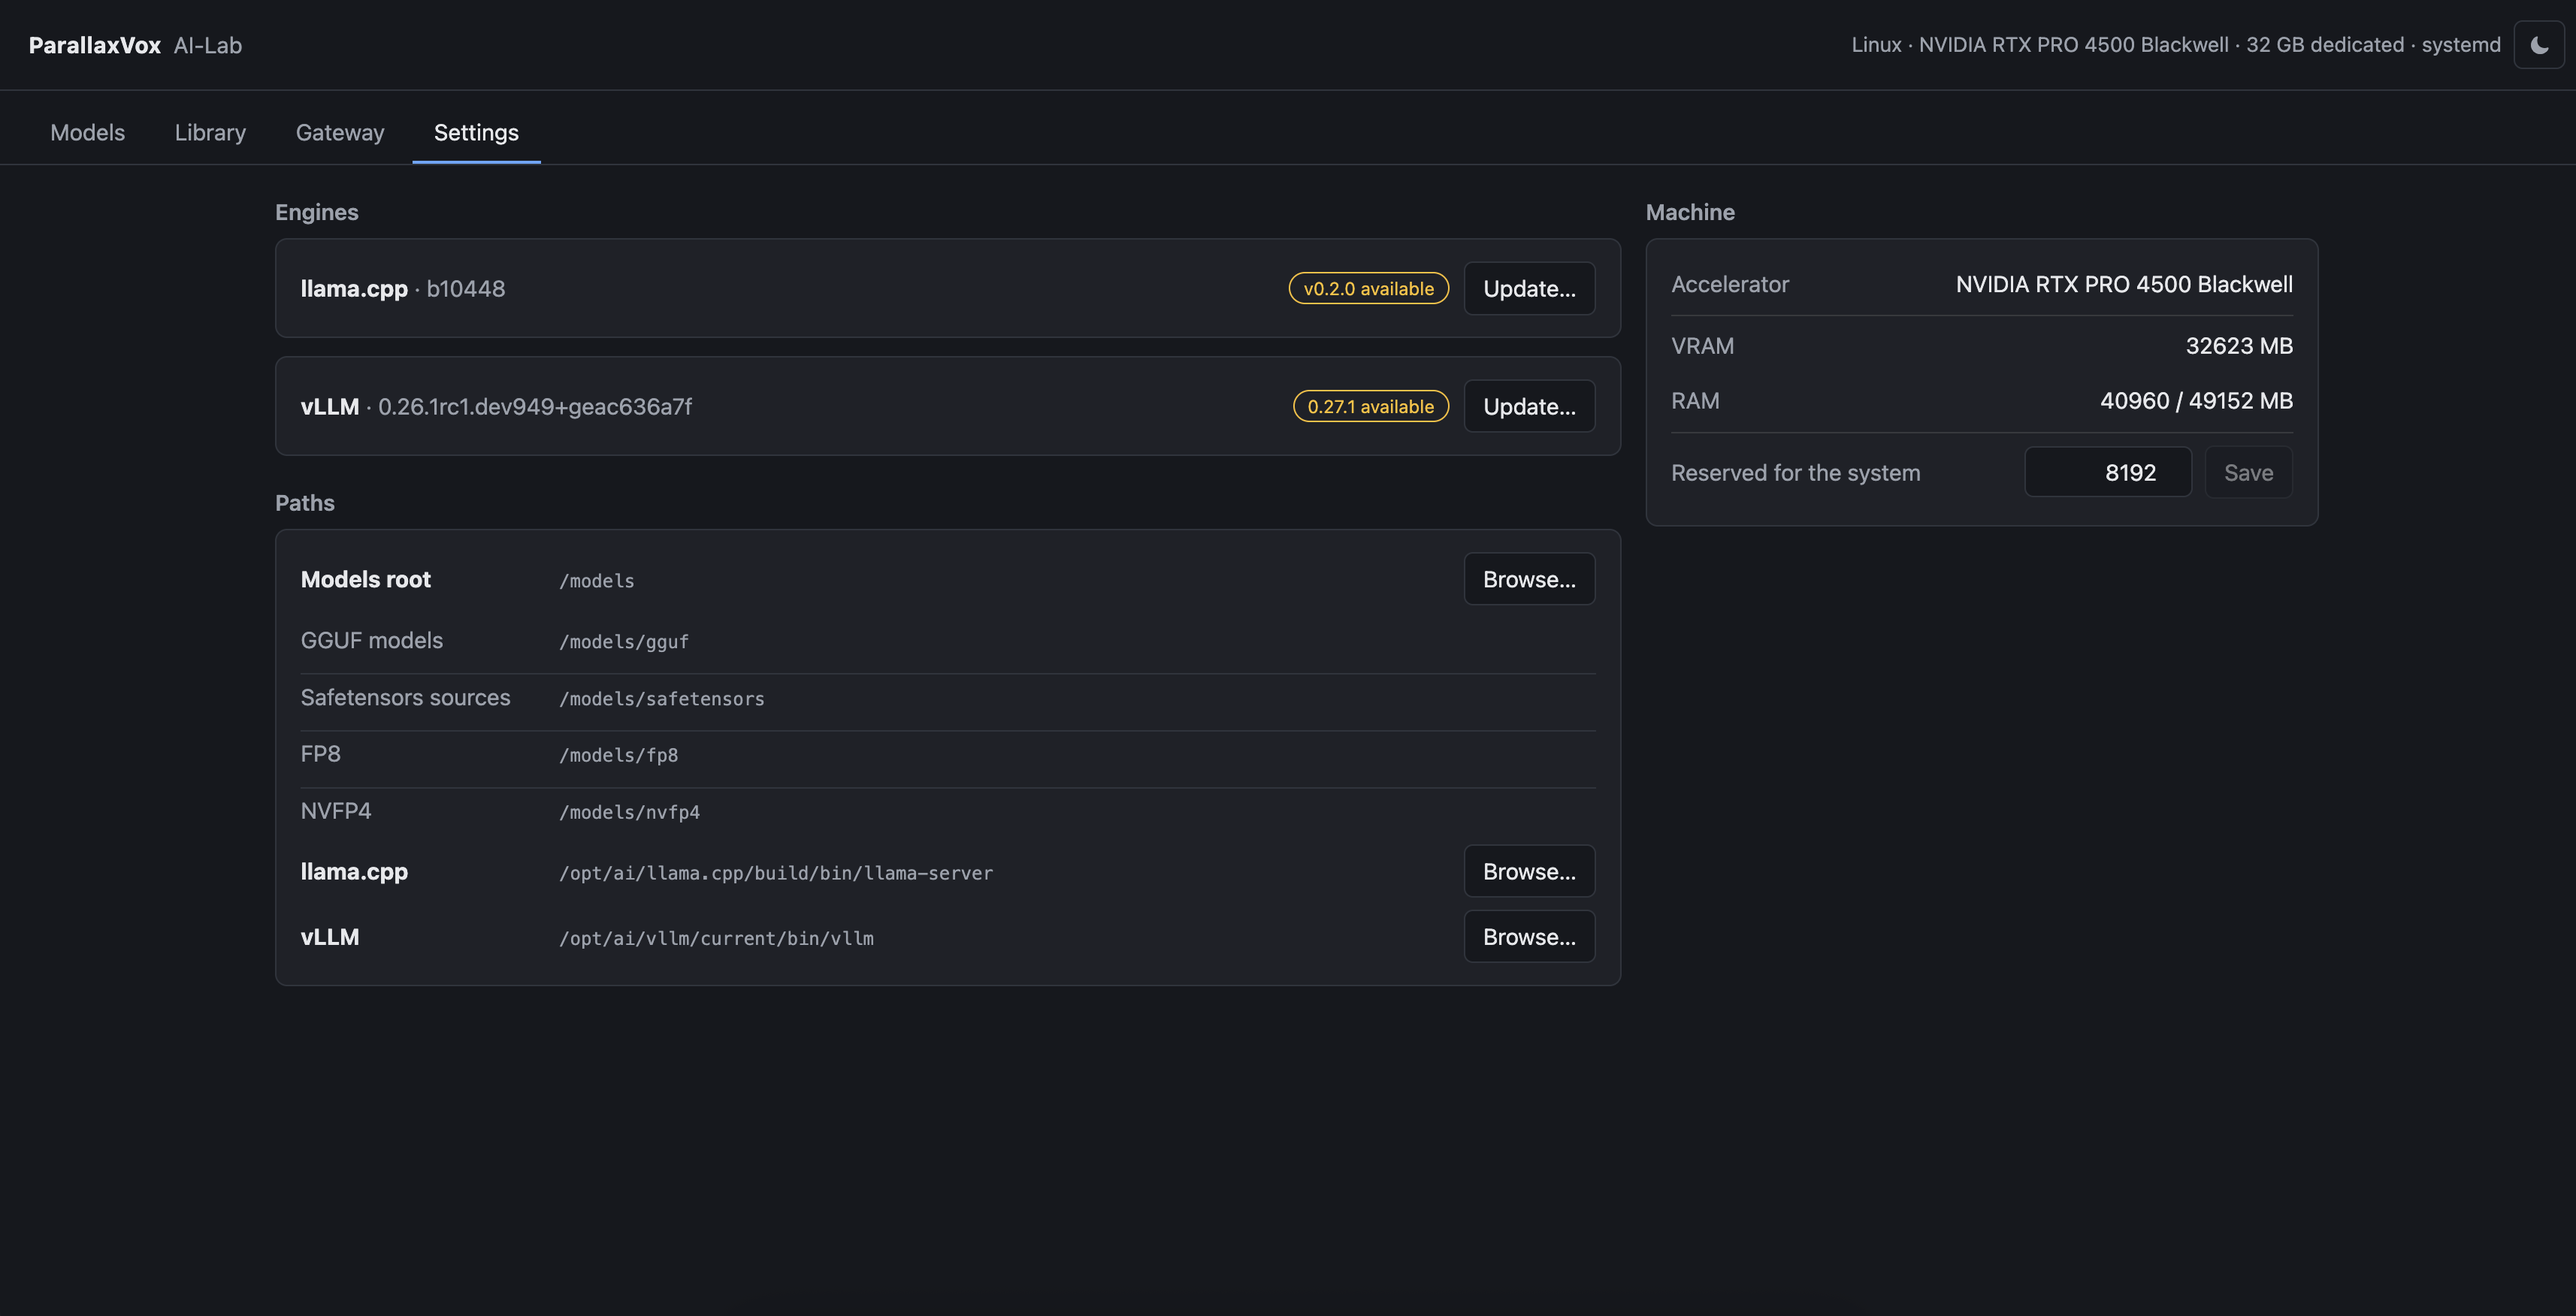
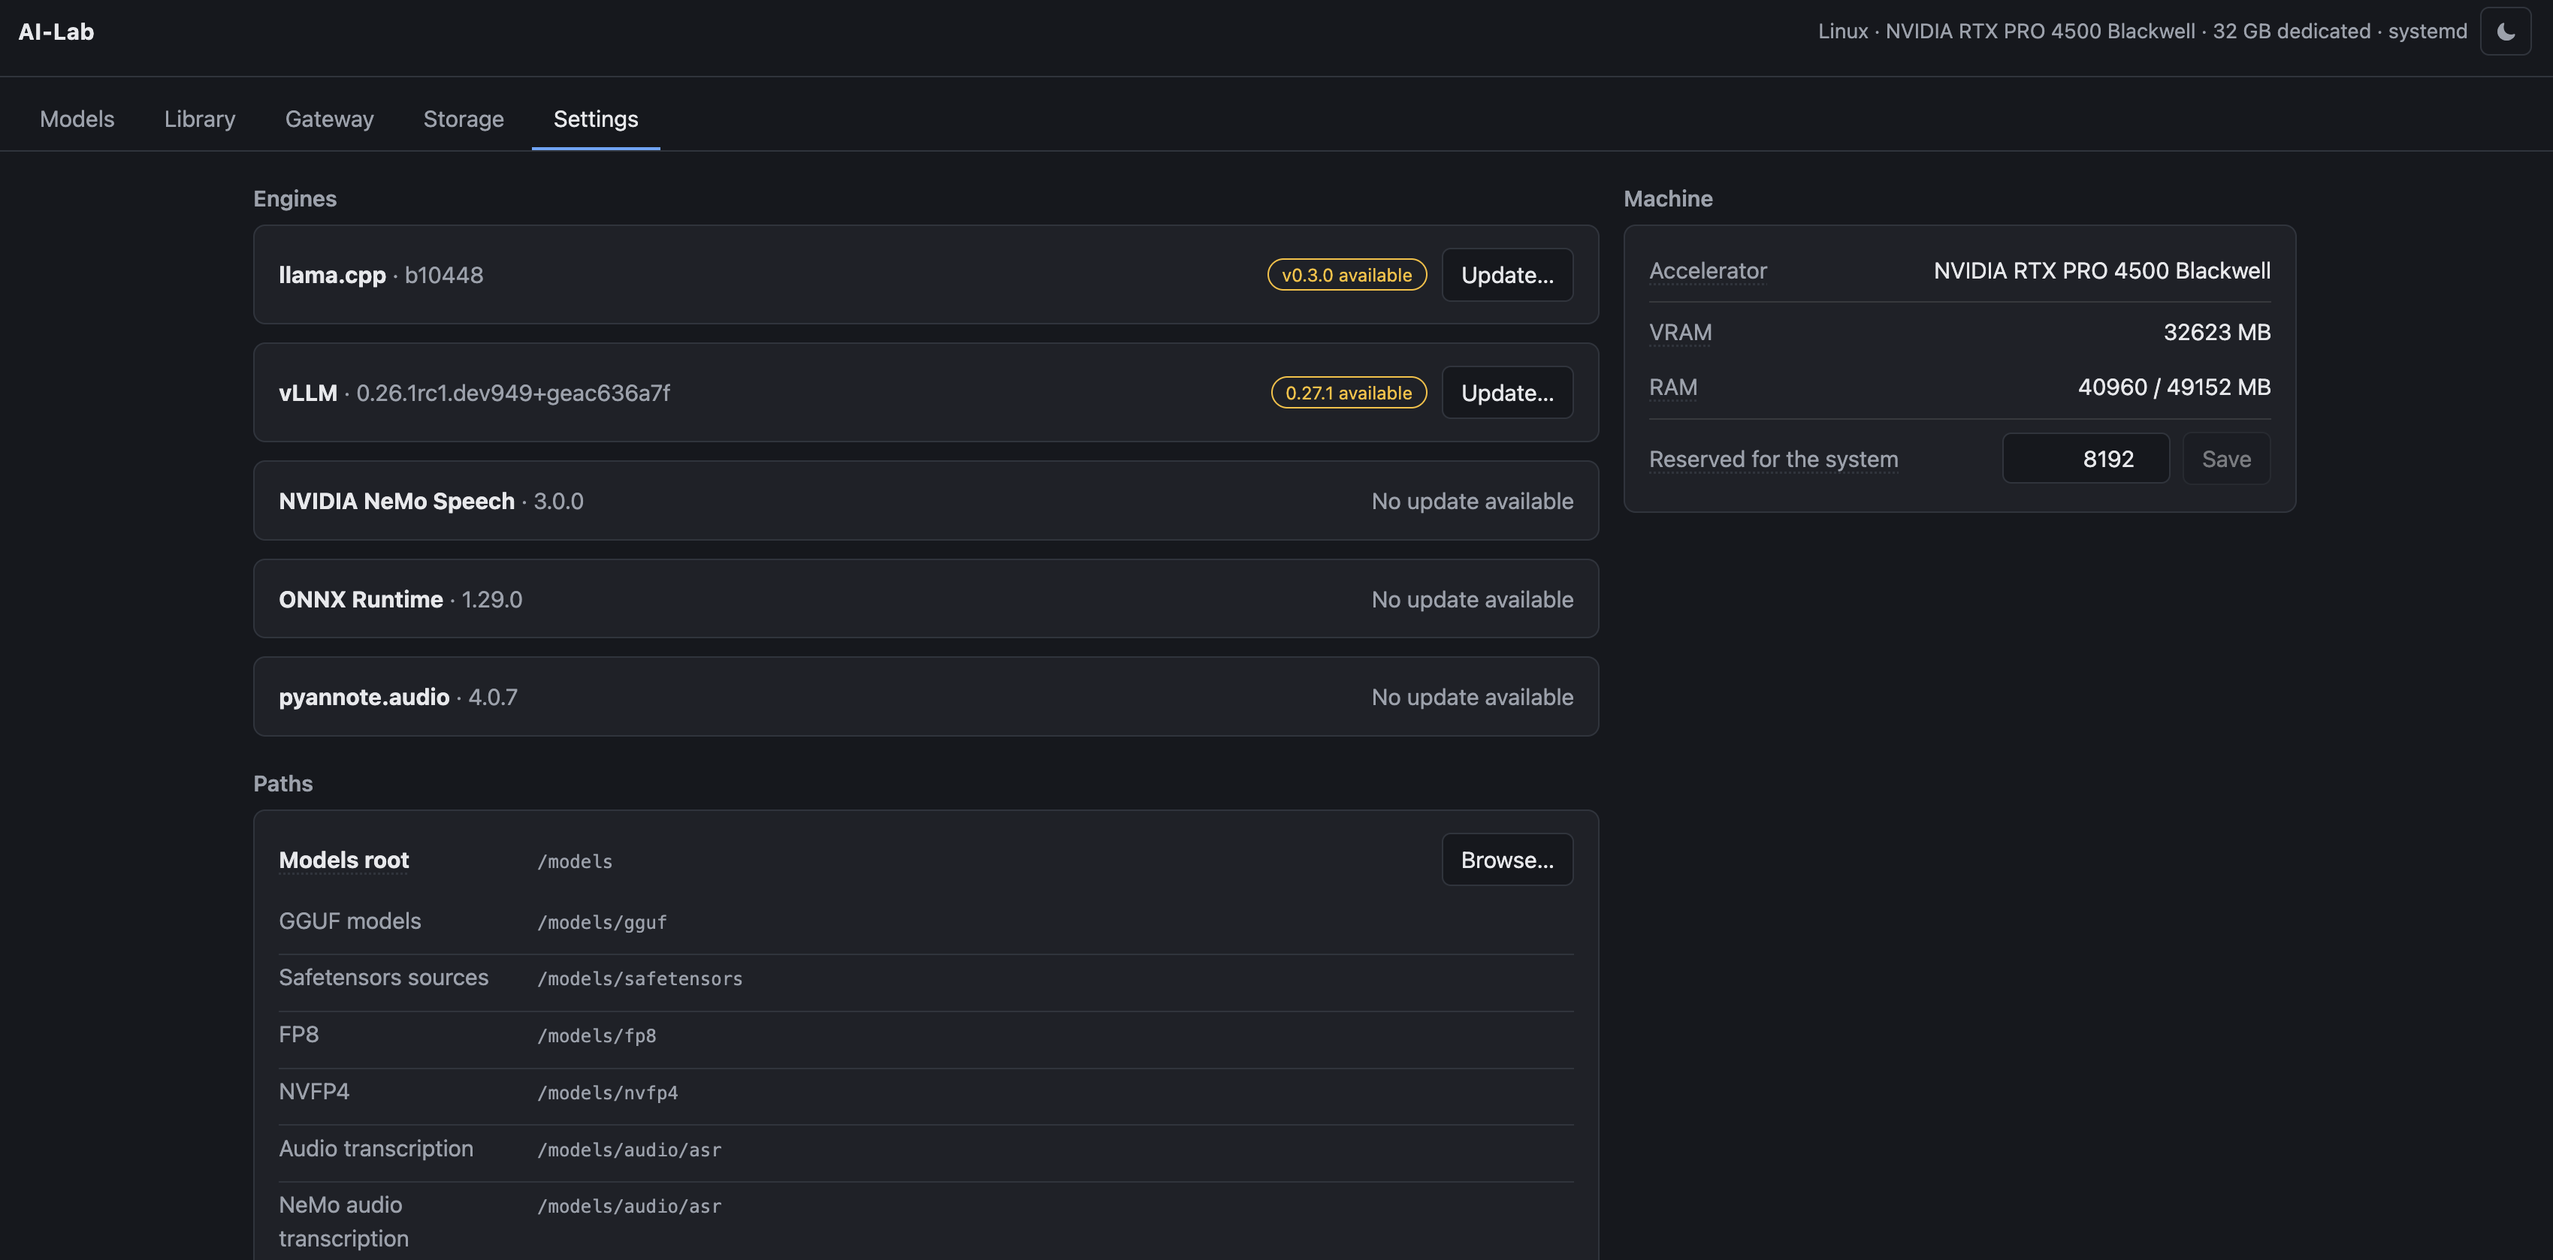
Update Settings and Storage documentation

diff --git a/README.md b/README.md
@@ -86,6 +86,18 @@ The address to point an agent at, what is loaded right now, and the queue read
 as what is about to happen rather than as a list of requests. More in
 [Gateway](docs/gateway.md).
 
+![Settings](docs/screenshots/settings.png)
+
+Installed engine versions and available updates, the machine's memory reserve,
+and every path the installation depends on. More in
+[Settings](docs/settings.md).
+
+![Storage](docs/screenshots/storage.png)
+
+Caches and leftovers that actually exist, plus inactive engine versions kept
+as a way back after an update. Model files remain the Library's responsibility.
+More in [Storage](docs/storage.md).
+
 ## Licence
 
 MIT. See `LICENSE`.

diff --git a/docs/storage.md b/docs/storage.md
@@ -10,6 +10,13 @@ be reclaimed. It has two subjects:
 Models do not appear here. Their files, deletion rules and confirmations stay
 in Library, so there is one place responsible for model storage.
 
+![Storage](screenshots/storage.png)
+
+The left side contains only cache or leftover locations that currently exist
+and contain something reclaimable. The right side contains only genuine engine
+rollback choices; when no second version exists, it says so instead of showing
+the active version as something that can be removed.
+
 ## An explicit allow-list
 
 The page cannot send an arbitrary path to the manager. Every removable cache
